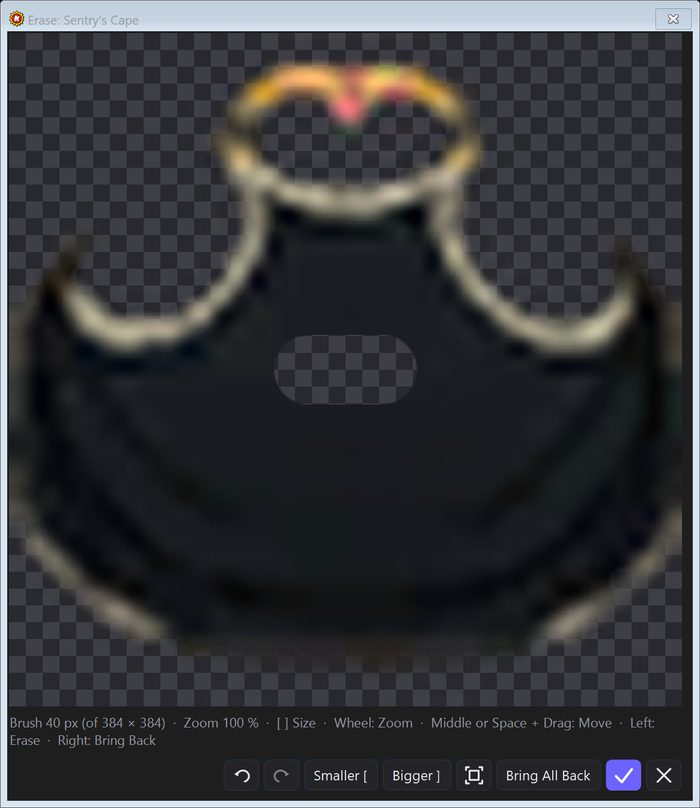
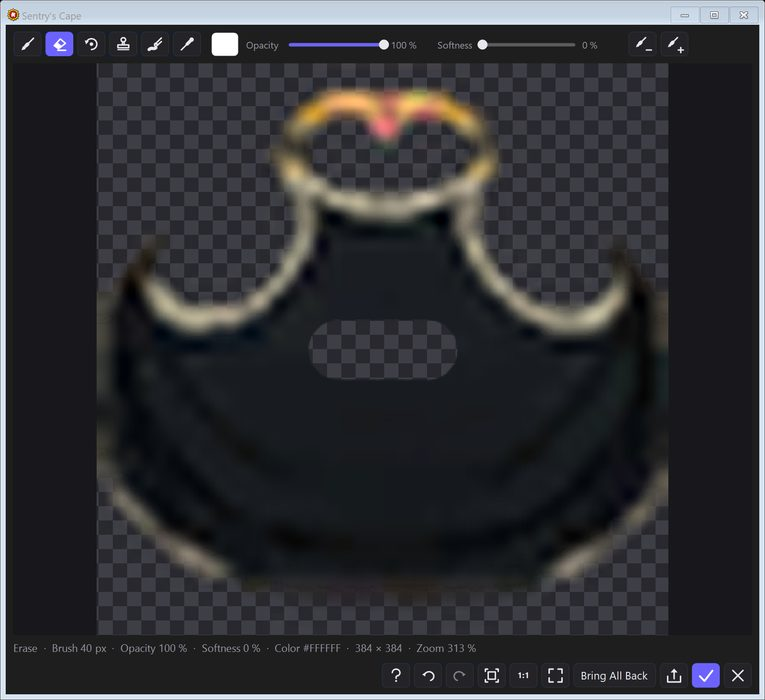
MHO Extended Mod Manager 0.60.562: image editor softness, own tooltips, release prep
- Image editor: Softness slider (every tool; Ctrl + [ / ]), brush size buttons as brush icons with - / +, no tooltip over the picture (the keys are on the ? button).
- Ui.IOwnsTips: the image editor takes the tooltips as a modal window does (the Model tab's 3D view tooltip flickered through it).
- What's New notice, manual walkthrough screenshot (image-editor.jpg, gear-eraser.jpg remade), --image-edit-snapshot.

diff --git a/MhoExtendedModManager/Manual/manual.html b/MhoExtendedModManager/Manual/manual.html
@@ -782,11 +782,12 @@ Next time, <b>Edit in Blender</b> opens that same Blender scene again, with your
 <ol class="steps">
 <li>Pick a tool at the top: <b>Brush</b> (<kbd>B</kbd>) paints the brush color, <b>Erase</b> (<kbd>E</kbd>) makes pixels see-through, <b>Bring Back</b> (<kbd>R</kbd>) paints back what was there when the window opened, <b>Clone</b> (<kbd>C</kbd>) paints a copy of another part of the picture (<kbd>Ctrl</kbd>+click where to copy from first; the source, shown as a cross, follows the brush), <b>Smudge</b> (<kbd>S</kbd>) drags colors along like a finger in wet paint, <b>Eyedropper</b> (<kbd>I</kbd>) takes a color from the picture. The right button always brings back; <kbd>Alt</kbd>+click takes a color with any tool (<kbd>Ctrl</kbd>+click too, except with Clone).</li>
 <li>The color square next to the tools opens a color wheel with the hex value and a screen eyedropper (drag it onto any color on the screen). <b>Opacity</b> sets how strongly a stroke covers; a stroke doesn't build up over itself, a new stroke adds to the last.</li>
-<li><kbd>[</kbd> and <kbd>]</kbd> make the brush smaller or bigger; <kbd>Shift</kbd>+<kbd>[</kbd> / <kbd>]</kbd> change the opacity. <kbd>Shift</kbd>+click paints a straight line from where the last stroke ended (the line shows while Shift is held).</li>
+<li><kbd>[</kbd> and <kbd>]</kbd> make the brush smaller or bigger; <kbd>Shift</kbd>+<kbd>[</kbd> / <kbd>]</kbd> change the opacity. <b>Softness</b> sets how soft the brush's edge is (0 % hard, 100 % fading from the middle; <kbd>Ctrl</kbd>+<kbd>[</kbd> / <kbd>]</kbd>); a dashed inner ring shows where the fade starts. <kbd>Shift</kbd>+click paints a straight line from where the last stroke ended (the line shows while Shift is held).</li>
 <li>The mouse wheel (or <kbd>+</kbd> / <kbd>−</kbd>) zooms at the cursor, <kbd>Shift</kbd> for finer steps; <kbd>0</kbd> or <b>Fit</b> shows the whole picture, <kbd>1</kbd> or <b>1:1</b> one picture pixel per screen pixel; the middle button or <kbd>Space</kbd>+drag moves the view; <kbd>F11</kbd> fills the screen. The window can be resized.</li>
 <li><b>Undo</b> and <b>Redo</b> (<kbd>Ctrl+Z</kbd>, <kbd>Ctrl+Y</kbd>) step through the strokes; <b>Bring All Back</b> returns to the picture as it opened; <b>Export</b> saves a PNG copy.</li>
 <li>From an icon tab or an icon maker: <b>Done</b> (<kbd>Enter</kbd>) keeps it, <b>Cancel</b> (<kbd>Esc</kbd>) takes every stroke back. As your chosen image editor: <b>Save</b> (<kbd>Ctrl+S</kbd>) sends the picture back, as a save in GIMP does; <b>Close</b> asks about changes not saved.</li>
 </ol>
+<figure><img src="img/image-editor.jpg" alt="The built-in image editor on a store image: the tools, color, Opacity and Softness at the top, a soft brush stroke, and the buttons at the bottom."><figcaption>The built-in image editor: tools, color, Opacity and Softness at the top; the ? button lists every key.</figcaption></figure>
 <p>An icon tab's replacement is converted to the game's format when you click Done (DXT1 or DXT5 at the original's size), so editing it again starts from that converted copy.</p>
 </div>
 

diff --git a/MhoExtendedModManager/Gui/ImageEditForm.cs b/MhoExtendedModManager/Gui/ImageEditForm.cs
@@ -17,7 +17,7 @@ namespace MhoExtendedModManager.Gui;
 /// Choose Image Editor (<see cref="OpenFile"/>: Save writes the file, so every Edit in Image Editor takes it in as it would a
 /// save in GIMP).
 /// </summary>
-sealed class ImageEditForm : Form
+sealed class ImageEditForm : Form, Ui.IOwnsTips
 {
     public enum Tool { Brush, Erase, BringBack, Eyedropper, Clone, Smudge }
 
@@ -30,13 +30,15 @@ sealed class ImageEditForm : Form
     readonly Button undoButton, redoButton;
     readonly Dictionary<Tool, Button> toolButtons = [];
     readonly ColorSwatch swatch;
-    readonly LightSlider opacitySlider;
+    readonly LightSlider opacitySlider, softSlider;
     readonly string? file;
     Bitmap view;
     /// <summary>The brush's radius in the image's pixels, its color and opacity (remembered while the app runs).</summary>
     static float radius = 10;
     static Color color = Color.White;
     static float opacity = 1;
+    /// <summary>The brush's soft edge (Kurt, 2026-11-18): 0 = hard (a one-pixel edge), 1 = soft from its middle out.</summary>
+    static float softness = 0;
     Tool tool;
     /// <summary>The painting tool the eyedropper goes back to after a pick.</summary>
     Tool lastPaint;
@@ -131,6 +133,10 @@ sealed class ImageEditForm : Form
         opacitySlider.ValueChanged += () => { opacity = opacitySlider.Value; ShowInfo(); };
         Ui.Tip(opacitySlider, "How strongly the Brush, Erase and Bring Back cover in one stroke (Shift + [ and Shift + ]). A stroke doesn't build up over itself; a new stroke adds to the last.");
         tools.Controls.Add(opacitySlider);
+        softSlider = new LightSlider { Label = "Softness", Min = 0, Max = 1, Step = 0.05f, Mark = null, Format = v => $"{v * 100:0} %", Home = () => 0, Width = (int)(220 * s), Height = (int)(30 * s), Value = softness, Margin = new Padding(0, 3, (int)(10 * s), 3) };
+        softSlider.ValueChanged += () => { softness = softSlider.Value; ShowInfo(); canvas.Invalidate(); };
+        Ui.Tip(softSlider, "How soft the brush's edge is, for every tool: 0 % is a hard edge, 100 % fades from the middle out (Ctrl + [ and Ctrl + ]). The inner dashed ring shows where the fade starts.");
+        tools.Controls.Add(softSlider);
         tools.Controls.Add(Ui.FlatButton("Smaller [", () => SetRadius(radius / 1.25f), tip: "A smaller brush ([ key)."));
         tools.Controls.Add(Ui.FlatButton("Bigger ]", () => SetRadius(radius * 1.25f), tip: "A bigger brush (] key)."));
         t.Controls.Add(tools, 0, 0);
@@ -171,20 +177,22 @@ sealed class ImageEditForm : Form
         canvas.MouseLeave += (_, _) => { mouse = new Point(-100, -100); canvas.Invalidate(); };
         canvas.MouseEnter += (_, _) => canvas.Focus();
         canvas.MouseWheel += (_, e) => ZoomAt(e.Location, e.Delta > 0 ? ((ModifierKeys & Keys.Shift) != 0 ? 1.05f : 1.25f) : 1 / ((ModifierKeys & Keys.Shift) != 0 ? 1.05f : 1.25f));
-        Ui.Tip(canvas, "Left button: the tool (B Brush, E Erase, R Bring Back, C Clone, S Smudge, I Eyedropper). Right button: bring back what was there. Clone: Ctrl + click where to copy from. Alt + click (or Ctrl + click with other tools): take a color. Shift + click: a straight line from where the last stroke ended. [ and ]: brush size; Shift + [ / ]: opacity. Mouse wheel or + / −: zoom at the cursor (Shift: finer); 0: fit; 1: actual size. Middle button, or Space + left: move the view. Ctrl+Z / Ctrl+Y: undo / redo a stroke. F11: full screen.");
+        // (no tooltip on the picture: it covered what you paint, Kurt 2026-11-18; the keys are on the Keys and Mouse button)
         t.Controls.Add(canvas, 0, 1);
         info.Margin = new Padding(0, 8, 0, 0);
         // (a fixed-size line: an auto-sized one changed size with every mouse move over the picture and re-laid the window out)
         info.AutoSize = false; info.AutoEllipsis = true; info.Dock = DockStyle.Fill; info.Height = TextRenderer.MeasureText("Ag", Font).Height + 4;
         t.Controls.Add(info, 0, 2);
 
+        var keys = Ui.FlatButton("Keys and Mouse", () => { }, tip: "Left button: the tool (B Brush, E Erase, R Bring Back, C Clone, S Smudge, I Eyedropper). Right button: bring back what was there. Clone: Ctrl + click where to copy from. Alt + click (or Ctrl + click with other tools): take a color. Shift + click: a straight line from where the last stroke ended. [ and ]: brush size; Shift + [ / ]: opacity; Ctrl + [ / ]: softness. Mouse wheel or + / −: zoom at the cursor (Shift: finer); 0: fit; 1: actual size. Middle button, or Space + left: move the view. Ctrl+Z / Ctrl+Y: undo / redo a stroke. F11: full screen.");
+        Icons.Make(keys, "Keys and Mouse", Icons.Help, s);
         undoButton = Ui.FlatButton("Undo", Undo, tip: "Take the last stroke back (Ctrl+Z).");
         Icons.Make(undoButton, "Undo", Icons.Undo, s);
         redoButton = Ui.FlatButton("Redo", Redo, tip: "Do the stroke again that Undo took back (Ctrl+Y).");
         Icons.Make(redoButton, "Redo", Icons.Redo, s);
         var buttons = new FlowLayoutPanel { AutoSize = true, AutoSizeMode = AutoSizeMode.GrowAndShrink, WrapContents = false, Anchor = AnchorStyles.Right, Margin = new Padding(0, 10, 0, 0) };
         buttons.Controls.AddRange([
-            undoButton, redoButton,
+            keys, undoButton, redoButton,
             Ui.FlatButton("Fit", Fit, tip: "The whole picture in the window again (0 key)."),
             Ui.FlatButton("1:1", ActualSize, tip: "One picture pixel per screen pixel (1 key)."),
             Ui.FlatButton("Full Screen", ToggleFull, tip: "Fill the screen with the editor; again to come back (F11)."),
@@ -218,8 +226,8 @@ sealed class ImageEditForm : Form
         {
             if (ActiveControl is TextBox) return;
             bool shift = e.Shift, ctrl = e.Control;
-            if (e.KeyCode == Keys.OemOpenBrackets) { if (shift) SetOpacity(opacity - 0.1f); else SetRadius(radius / 1.25f); e.Handled = true; }
-            else if (e.KeyCode == Keys.OemCloseBrackets) { if (shift) SetOpacity(opacity + 0.1f); else SetRadius(radius * 1.25f); e.Handled = true; }
+            if (e.KeyCode == Keys.OemOpenBrackets) { if (ctrl) softSlider.Value = Math.Clamp(softness - 0.1f, 0, 1); else if (shift) SetOpacity(opacity - 0.1f); else SetRadius(radius / 1.25f); e.Handled = true; }
+            else if (e.KeyCode == Keys.OemCloseBrackets) { if (ctrl) softSlider.Value = Math.Clamp(softness + 0.1f, 0, 1); else if (shift) SetOpacity(opacity + 0.1f); else SetRadius(radius * 1.25f); e.Handled = true; }
             else if (e.KeyCode == Keys.Z && ctrl && shift) { Redo(); e.Handled = true; }
             else if (e.KeyCode == Keys.Z && ctrl) { Undo(); e.Handled = true; }
             else if (e.KeyCode == Keys.Y && ctrl) { Redo(); e.Handled = true; }
@@ -362,7 +370,7 @@ sealed class ImageEditForm : Form
         string under = note != null ? "  ·  " + note : tool == Tool.Clone && cloneSource == null ? "  ·  Ctrl + Click Where to Copy From" : "";
         if (UnderMouse() is Color c && (tool == Tool.Eyedropper || PickHeld))
             under += $"  ·  Under the Cursor #{c.R:X2}{c.G:X2}{c.B:X2}{(c.A < 255 ? $" ({c.A * 100 / 255} % Opaque)" : "")}";
-        info.Text = $"{Name(tool)}  ·  Brush {radius * 2:0.#} px  ·  Opacity {opacity * 100:0} %  ·  Color #{color.R:X2}{color.G:X2}{color.B:X2}  ·  {w} × {h}  ·  Zoom {Scale * 100:0} %{under}"
+        info.Text = $"{Name(tool)}  ·  Brush {radius * 2:0.#} px  ·  Opacity {opacity * 100:0} %  ·  Softness {softness * 100:0} %  ·  Color #{color.R:X2}{color.G:X2}{color.B:X2}  ·  {w} × {h}  ·  Zoom {Scale * 100:0} %{under}"
             + (file != null && saved != null && !px.AsSpan().SequenceEqual(saved) ? "  ·  Not Saved" : "");
         if (undoButton != null) { undoButton.Enabled = undo.Count > 0; redoButton.Enabled = redo.Count > 0; }
     }
@@ -443,7 +451,7 @@ sealed class ImageEditForm : Form
                 for (int x = x0; x <= x1; x++)
                 {
                     float d = MathF.Sqrt((x + 0.5f - cx) * (x + 0.5f - cx) + (y + 0.5f - cy) * (y + 0.5f - cy));
-                    float c = Math.Clamp(radius + 0.5f - d, 0, 1);
+                    float c = Cover(d);
                     int p = y * w + x;
                     if (c <= cover[p]) continue;
                     cover[p] = c;
@@ -519,7 +527,7 @@ sealed class ImageEditForm : Form
                 float pb = px[at] * a, pg = px[at + 1] * a, pr = px[at + 2] * a;
                 if (load) { carried![bi] = pb; carried[bi + 1] = pg; carried[bi + 2] = pr; carried[bi + 3] = a; continue; }
                 float d = MathF.Sqrt((x + 0.5f - cx) * (x + 0.5f - cx) + (y + 0.5f - cy) * (y + 0.5f - cy));
-                float c = Math.Clamp(radius + 0.5f - d, 0, 1) * opacity;
+                float c = Cover(d) * opacity;
                 if (c <= 0) continue;
                 float nb = pb + (carried![bi] - pb) * c, ng = pg + (carried[bi + 1] - pg) * c, nr = pr + (carried[bi + 2] - pr) * c, na = a + (carried[bi + 3] - a) * c;
                 if (na <= 1e-4f) px[at + 3] = 0;
@@ -532,6 +540,17 @@ sealed class ImageEditForm : Form
                 carried[bi] += (nb - carried[bi]) * 0.25f; carried[bi + 1] += (ng - carried[bi + 1]) * 0.25f;
                 carried[bi + 2] += (nr - carried[bi + 2]) * 0.25f; carried[bi + 3] += (na - carried[bi + 3]) * 0.25f;
             }
+    }
+
+    /// <summary>The brush's coverage at <paramref name="d"/> pixels from its middle: full inside the hard part, then a smooth
+    /// fade to the edge (with no softness, the one-pixel edge it always had).</summary>
+    static float Cover(float d)
+    {
+        float inner = radius * (1 - softness);
+        if (d <= inner - 0.5f) return 1;
+        float fade = Math.Max(1f, radius + 0.5f - (inner - 0.5f));
+        float c = Math.Clamp((radius + 0.5f - d) / fade, 0, 1);
+        return softness > 0 ? c * c * (3 - 2 * c) : c;
     }
 
     void Refresh2()
@@ -577,6 +596,11 @@ sealed class ImageEditForm : Form
     /// <summary>Test: the eyedropper at a canvas point; the brush color after.</summary>
     internal Color PickForTest(Point at) { var was = tool; tool = Tool.Eyedropper; Pick(at); tool = was; return color; }
     internal void UndoForTest() => Undo();
+    /// <summary>Snapshot: the brush color, opacity and softness set as the controls would (they show it).</summary>
+    internal void SettingsForTest(Color c, float o, float soft) { color = c; swatch.Swatch = c; opacitySlider.Value = o; opacity = o; softSlider.Value = soft; softness = soft; ShowInfo(); }
+    /// <summary>Test / snapshot: the mouse over a canvas point (the brush ring drawn there).</summary>
+    internal void HoverForTest(Point at) { mouse = at; SetTool(Tool.Brush); canvas.Invalidate(); }
+    internal static float SoftnessForTest { get => softness; set => softness = value; }
     /// <summary>Test: Clone from <paramref name="source"/> (canvas), then a stroke from <paramref name="a"/> to <paramref name="b"/>.</summary>
     internal void CloneForTest(Point source, Point a, Point b, float brushRadius)
     {
@@ -668,6 +692,13 @@ sealed class ImageEditForm : Form
         using var pen2 = new Pen(Color.FromArgb(160, 0, 0, 0), 1f);
         g.DrawEllipse(pen2, mouse.X - rr - 1, mouse.Y - rr - 1, rr * 2 + 2, rr * 2 + 2);
         g.DrawEllipse(pen, mouse.X - rr, mouse.Y - rr, rr * 2, rr * 2);
+        if (softness > 0.02f)
+        {
+            // where the soft edge starts
+            float ri = rr * (1 - softness);
+            using var inner = new Pen(Color.FromArgb(170, 255, 255, 255), 1f) { DashStyle = DashStyle.Dash };
+            if (ri > 1) g.DrawEllipse(inner, mouse.X - ri, mouse.Y - ri, ri * 2, ri * 2);
+        }
     }
 
     protected override void Dispose(bool disposing)

diff --git a/MhoExtendedModManager/WhatsNew.cs b/MhoExtendedModManager/WhatsNew.cs
@@ -50,7 +50,7 @@ static class WhatsNew
     const string Discord1 = "https://discord.com/channels/1130836076332863580/1553841408471867442";
     const string Discord2 = "https://discord.com/channels/1142968916205903942/1553842238969352263";
 
-    public static IReadOnlyList<Notice> Notices => ModelTabReleased ? [GearPage(), VisualUpdateImage(), PowerIcons(), SnapOnAttack(), BorrowDonors(), WholeSummons(), BorrowEffects(), BorrowParts(), FreeCamModes(), SpecMakers(), NoAnimBorrow(), FormAnimations(), PowerAnimFix(), BorrowCrashFix(), FreeCamOptions(), DecalsAndFixes(), PetMoves(), TeamUpMoves(), BorrowPower(), HeightAndFixes(), AudioSettings(), AudioTools(), VoiceCrashFix(), CopyCrashFix(), ListsAndSpec(), MaterialCopy(), PropsAndGizmo(), SnapshotsAndEffects(), PaintAndShortcuts(), PropsAndViews(), GameSourceFeet(), RemoveCleans(), SoundsAndForms(), FormsAndSummons(), PartsAndGhosts(), VoiceEffects(), DarkPowers(), SafeUnique(), UnibeamAndShared(), CrashChecks(), AddRigs(), PropTargets(), AdjustColors(), TidyData(), NexusSignIn(), PhoenixEffects(), AnyTarget(), TextureManager(), HistorySmall(), PowersPlaced(), ScreenFit(), FormatsAndEditors(), SizeAndNpcs(), ModelNotice(), SingleColors(), Editor(PowersAndAnimations)] : [SingleColors(), Editor(PowersAndAnimations)];
+    public static IReadOnlyList<Notice> Notices => ModelTabReleased ? [ImageEditor(), GearPage(), VisualUpdateImage(), PowerIcons(), SnapOnAttack(), BorrowDonors(), WholeSummons(), BorrowEffects(), BorrowParts(), FreeCamModes(), SpecMakers(), NoAnimBorrow(), FormAnimations(), PowerAnimFix(), BorrowCrashFix(), FreeCamOptions(), DecalsAndFixes(), PetMoves(), TeamUpMoves(), BorrowPower(), HeightAndFixes(), AudioSettings(), AudioTools(), VoiceCrashFix(), CopyCrashFix(), ListsAndSpec(), MaterialCopy(), PropsAndGizmo(), SnapshotsAndEffects(), PaintAndShortcuts(), PropsAndViews(), GameSourceFeet(), RemoveCleans(), SoundsAndForms(), FormsAndSummons(), PartsAndGhosts(), VoiceEffects(), DarkPowers(), SafeUnique(), UnibeamAndShared(), CrashChecks(), AddRigs(), PropTargets(), AdjustColors(), TidyData(), NexusSignIn(), PhoenixEffects(), AnyTarget(), TextureManager(), HistorySmall(), PowersPlaced(), ScreenFit(), FormatsAndEditors(), SizeAndNpcs(), ModelNotice(), SingleColors(), Editor(PowersAndAnimations)] : [SingleColors(), Editor(PowersAndAnimations)];
 
     /// <summary>0.60.462 (Kurt, 2026-11-10): summons as a whole character; added props movable again after reopening.</summary>
     /// <summary>0.60.480 (Kurt, 2026-11-10): team-up and enemy donors in Borrow Power, missile parts and animation trails in
@@ -59,6 +59,20 @@ static class WhatsNew
     /// and Shape Keys, Weapon parts, idle buttons, game characters onto others (Medusa on Carnage).</summary>
     /// <summary>0.60.537 (Kurt, 2026-11-17): the Visual Update image, Swap Model on telescoping staffs, the folded Prop Fit heading.</summary>
     /// <summary>0.60.556 (Kurt, 2026-11-17): the Gear page, the icon eraser, Vision's Intangible Density material swaps, Snap on Attack keys.</summary>
+    static Notice ImageEditor() => new(
+        "0.60.562-image-editor", "0.60.562",
+        "[!]New: a built-in image editor" + nl +
+        "  • Brush, Erase, Bring Back, Clone, Smudge and Eyedropper, with a color wheel, Opacity and Softness. Shift + click draws a straight line from your last stroke; Undo / Redo, zoom, 1:1 and full screen. The ? button lists every key." + nl +
+        "  • Icons tabs: Edit Image (or click a picture, then Edit Here) paints on a replacement or the game's original. Icon makers: click the big icon. Model tab: double-click a map, then Edit Here." + nl +
+        "  • Settings → Model → Choose Image Editor → Built-In Editor makes every Edit in Image Editor use it (it's also used when no other editor is installed)." + nl + nl +
+        "[!]Also" + nl +
+        "  • Model tab: an MFF model whose texture paints half a face and uses it for both sides no longer shows a seam down the middle. Build into Mod again to fix one built before." + nl +
+        "  • Find My Mods on Nexus remembers the matches you untick." + nl +
+        "  • Editor → Details: a mod linked to its Nexus page shows that page in the Nexus Page box." + nl +
+        "  • Model tab builds use your author name, not \"MHO MFF Importer\"." + nl + nl +
+        "If something doesn't work, please report it on Discord: [MHServerEmu Development](" + Discord1 + ") or [TAHITI](" + Discord2 + ").",
+        "w-imageedit");
+
     static Notice GearPage() => new(
         "0.60.556-gear", "0.60.556",
         "[!]New in the Editor: Gear" + nl +

diff --git a/MhoExtendedModManager/Gui/Ui.cs b/MhoExtendedModManager/Gui/Ui.cs
@@ -205,6 +205,16 @@ static class Ui
     /// </summary>
     internal static List<string> TipDebugLog => DisabledTips.DebugLog;
 
+    /// <summary>
+    /// A window that isn't modal but takes the tooltips as a modal one does: its own tooltip, and the main window's put away
+    /// while the cursor is over it (Kurt, 2026-11-18: over the image editor, the Model tab's 3D view under it kept showing its
+    /// tooltip, which flickered, and the editor's own never showed).
+    /// </summary>
+    internal interface IOwnsTips { }
+
+    /// <summary>A modal window, or one that takes the tooltips as one (<see cref="IOwnsTips"/>).</summary>
+    static bool TakesTips(Form? f) => f != null && (f.Modal || f is IOwnsTips);
+
     sealed class DisabledTips : IMessageFilter
     {
         readonly System.Windows.Forms.Timer timer = new() { Interval = 450 };
@@ -218,7 +228,7 @@ static class Ui
                 // over a modal window, the main window's shared tooltip is put away (Kurt: the 3D view's tip showed through
                 // the Tag Colors window); back when the cursor leaves it
                 var formUnder = Control.FromChildHandle(WindowFromPoint(Cursor.Position))?.FindForm();
-                bool overModal = formUnder?.Modal == true;
+                bool overModal = TakesTips(formUnder);
                 if (overModal == Tips.Active) Tips.Active = !overModal;
                 var c = Under();
                 if (Debug) DebugLog.Add($"{Environment.TickCount64 % 100000} msg {m.Msg:X} under {c?.AccessibleName ?? "-"} over {over?.AccessibleName ?? "-"}");
@@ -238,7 +248,7 @@ static class Ui
             while (at.GetChildAtPoint(at.PointToClient(pos), GetChildAtPointSkip.Invisible) is Control child) at = child;
             // a disabled control, or any control of a modal window: the shared tooltip belongs to the main window, which a
             // modal window disables, so it never shows there (measured: --tip-dialog-test; Kurt: Tag Colors had no tooltips)
-            return (!at.Enabled || form.Modal) && at.Parent != null && !string.IsNullOrEmpty(Tips.GetToolTip(at)) ? at : null;
+            return (!at.Enabled || TakesTips(form)) && at.Parent != null && !string.IsNullOrEmpty(Tips.GetToolTip(at)) ? at : null;
         }
 
         // a modal window's own tooltip (the shared one, owned by the main window, stays hidden over it), freed with the window
@@ -247,7 +257,7 @@ static class Ui
 
         ToolTip TipsFor(Control c)
         {
-            if (c.FindForm() is not { Modal: true } f) return Tips;
+            if (c.FindForm() is not { } f || !TakesTips(f)) return Tips;
             if (!modalTips.TryGetValue(f, out var t))
             {
                 modalTips[f] = t = NewTips(() => shownText);

diff --git a/MhoExtendedModManager/Program.Windows.cs b/MhoExtendedModManager/Program.Windows.cs
@@ -826,6 +826,35 @@ static partial class Program
             Console.WriteLine(report);
             return report.StartsWith("ok") ? 0 : 1;
         }
+        if (args.Length == 3 && args[0].Equals("--image-edit-snapshot", StringComparison.OrdinalIgnoreCase))
+        {
+            // The manual's screenshot: the built-in image editor (off-screen) on a picture (.dds or an image), Brush picked, a
+            // soft half-opaque stroke across it and the brush ring in place. --image-edit-snapshot <image> <out.png>
+            Application.SetHighDpiMode(HighDpiMode.SystemAware);
+            Application.EnableVisualStyles();
+            Gui.Ui.UseDarkTheme();
+            Bitmap pic;
+            if (args[1].EndsWith(".dds", StringComparison.OrdinalIgnoreCase) && MhoPackageModifier.TextureDecode.ReadDds(args[1], out _) is { } d && MhoPackageModifier.TextureDecode.ToBgra(d.Format, d.W, d.H, d.Data, out _) is byte[] bgra)
+                pic = MhoPackageModifier.TextureDecode.ToBitmap(bgra, d.W, d.H);
+            else { using var b0 = Model.ImagePixels.Open(args[1]); pic = new Bitmap(b0); }
+            using var ed = new Gui.ImageEditForm(pic, null, Path.GetFileName(args[1])) { StartPosition = FormStartPosition.Manual, Location = new Point(-6000, -6000) };
+            ed.Shown += (_, _) => ed.BeginInvoke(async () =>
+            {
+                await Task.Delay(300);
+                Gui.ImageEditForm.SoftnessForTest = 0.6f;
+                Point Q(float x, float y) => ed.CanvasPointForTest(x, y);
+                ed.PaintForTest(Q(pic.Width * 0.2f, pic.Height * 0.78f), Q(pic.Width * 0.8f, pic.Height * 0.7f), Color.FromArgb(255, 240, 200, 40), 0.7f, pic.Width / 30f);
+                ed.SettingsForTest(Color.FromArgb(255, 240, 200, 40), 0.7f, 0.6f);
+                ed.HoverForTest(Q(pic.Width * 0.62f, pic.Height * 0.4f));
+                await Task.Delay(200);
+                using var shot = new Bitmap(ed.Width, ed.Height);
+                ed.DrawToBitmap(shot, new Rectangle(0, 0, ed.Width, ed.Height));
+                shot.Save(args[2]);
+                ed.Close();
+            });
+            Application.Run(ed);
+            return 0;
+        }
         if (args.Length == 3 && args[0].Equals("--viewer-snapshot", StringComparison.OrdinalIgnoreCase))
         {
             // Layout check: the image viewer (off-screen) on a picture, fitted and at 8×, as PNGs. --viewer-snapshot <image> <dir>

diff --git a/MhoExtendedModManager/Gui/Icons.cs b/MhoExtendedModManager/Gui/Icons.cs
@@ -488,6 +488,16 @@ static class Icons
         g.DrawLine(p, cx - r, cy, cx + r, cy); g.DrawLine(p, cx, cy - r, cx, cy + r);
     };
 
+    /// <summary>Brush size (Kurt, 2026-11-18: the [ ] buttons as a paint brush with + or −): the brush, smaller, with the sign
+    /// at its bottom right.</summary>
+    public static Action<Graphics, RectangleF, Pen, Brush> BrushSize(bool bigger) => (g, b, p, br) =>
+    {
+        PaintBrush(g, new RectangleF(b.X - b.Width * 0.04f, b.Y - b.Height * 0.04f, b.Width * 0.8f, b.Height * 0.8f), p, br);
+        float cx = b.Right - b.Width * 0.02f, cy = b.Bottom - b.Height * 0.04f, r = b.Width * 0.2f;
+        g.DrawLine(p, cx - r, cy, cx + r, cy);
+        if (bigger) g.DrawLine(p, cx, cy - r, cx, cy + r);
+    };
+
     /// <summary>A check box, ticked or empty (Tick All / Tick None).</summary>
     public static Action<Graphics, RectangleF, Pen, Brush> Box(bool ticked, bool all = false) => (g, b, p, br) =>
     {
@@ -823,6 +833,7 @@ static class Icons
         ["Add .UPK Files"] = ("Add .UPK Files", File("UPK", arrowIn: true)), ["Add .MHSFX Files"] = ("Add .MHSFX Files", File("SFX", arrowIn: true)),
         ["Open a .UPK"] = ("Open a .UPK", File("UPK", arrowIn: true)), ["Import Changes (.JSON)"] = ("Import Changes (.JSON)", File("JSON", arrowIn: true)),
         ["Keep as a Mod"] = ("Keep as a Mod", Build), ["Restore to Original"] = ("Restore to Original", Reset),
+        ["Smaller ["] = ("Smaller Brush", BrushSize(false)), ["Bigger ]"] = ("Bigger Brush", BrushSize(true)),
         ["A+"] = ("Larger Text", null), ["A−"] = ("Smaller Text", null), ["Back"] = ("Back", Back), ["Contents"] = ("Contents", List),
         ["▲"] = ("Previous / Up", null), ["▼"] = ("Next / Down", null), ["×"] = ("Remove", null), ["▶"] = ("Play / Pause", null), ["▾"] = ("More", null),
         ["Bust"] = ("Bust", Person(Framing.Shot.Bust)), ["Full Body"] = ("Full Body", Person(Framing.Shot.Full)),
